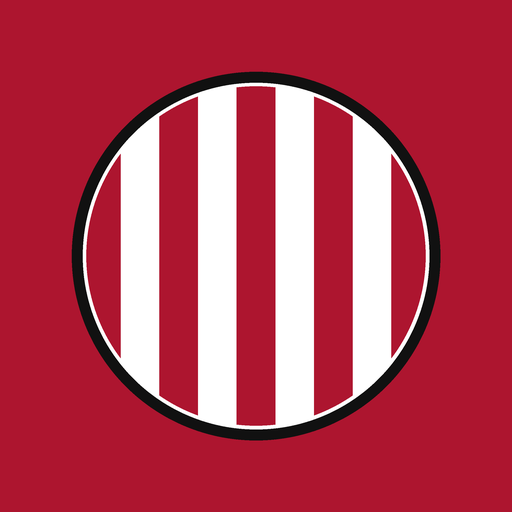
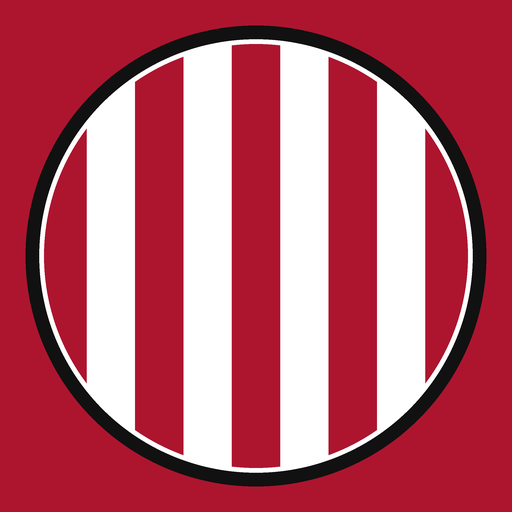
Add files via upload

diff --git a/index.html b/index.html
@@ -567,7 +567,7 @@ document.querySelectorAll("#v-share, #v-copy").forEach(b => b.insertAdjacentHTML
 
 /* ===================== Connection to the Google Sheet ===================== */
 /* The address of the Apps Script web app (Deploy → Manage deployments → Web app URL, ends in /exec) */
-const API_URL = "https://script.google.com/macros/s/AKfycby0wfFKCl3JBcaERGKSbg6Vpu4IoZvvzZt20ZAe_mgPCrwUEiahJZJ7CwCgvu2I-3Ew/exec";
+const API_URL = "PASTE_YOUR_WEB_APP_URL_HERE";
 
 /* Calls a function in Code.gs, e.g. api("login", [code]). Gives back what the function returns.
    The body is sent as plain text, which Google accepts from another website without extra checks. */

diff --git a/sw.js b/sw.js
@@ -1,7 +1,7 @@
 /* Service worker: keeps the app's own files on the phone, so it opens without a connection.
    The page itself is always fetched fresh when there is a connection, so a new version shows at once.
    Change the number in CACHE when you change an icon or the manifest. */
-const CACHE = "oif-u12-v1";
+const CACHE = "oif-u12-v2";
 const FILES = [
   "./",
   "./index.html",

diff --git a/README.md b/README.md
@@ -1,11 +1,15 @@
-ØIF U12 træningspas (app)
+# ØIF U12 træningspas (app)
+
 The app version of the training plan. The data still comes from the Google Sheet through Code.gs.
-Setup
-Paste the new Code.gs into the Apps Script project, then go to Deploy → Manage deployments → edit → New version. "Who has access" must be Anyone.
-Copy the Web app URL (ends in /exec) into API_URL near the top of the script in index.html.
-Upload this folder to GitHub and turn on GitHub Pages (Settings → Pages → Deploy from branch → main, root).
-Open the address on the phone → Share → "Føj til hjemmeskærm" (iPhone) or ⋮ → "Installer app" (Android).
-Updating
-Change the page: edit index.html and upload it. Phones get it the next time the app opens with a connection.
-Change the icons or manifest: also raise the number in CACHE in sw.js.
-Change Code.gs: deploy a New version of the same deployment, so the URL stays the same.
+
+## Setup
+1. Paste the new Code.gs into the Apps Script project, then go to Deploy → Manage deployments → edit → New version.
+   "Who has access" must be **Anyone**.
+2. Copy the Web app URL (ends in `/exec`) into `API_URL` near the top of the script in `index.html`.
+3. Upload this folder to GitHub and turn on GitHub Pages (Settings → Pages → Deploy from branch → main, root).
+4. Open the address on the phone → Share → "Føj til hjemmeskærm" (iPhone) or ⋮ → "Installer app" (Android).
+
+## Updating
+- Change the page: edit `index.html` and upload it. Phones get it the next time the app opens with a connection.
+- Change the icons or manifest: also raise the number in `CACHE` in `sw.js`.
+- Change Code.gs: deploy a New version of the same deployment, so the URL stays the same.
